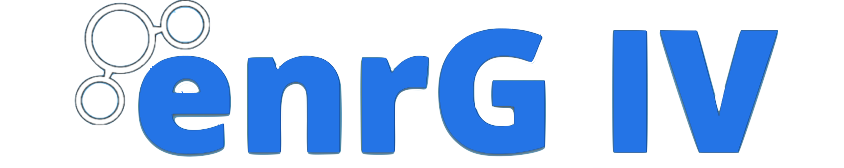
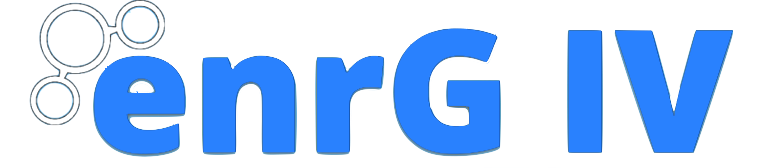
home header

diff --git a/app/assets/stylesheets/static_pages.scss b/app/assets/stylesheets/static_pages.scss
@@ -254,7 +254,7 @@ img.icon { width:10%; @include center-block();}
 
 	.home-cover{@include sec-default(); padding: 40px; @include sec-bgimage(); background-image: url(image_path('beach-couple.jpg'));background-position: center center;
 		height:650px;
-		.title-block {float: right; margin-top: 6%; text-align: center; width:40%;
+		.title-block {float: right; margin-top: 8%; text-align: center; width:45%;
 			.content{@include sec-default(); padding: 0px 0 30px;
 				.drop{@include sec-default(); position: relative;z-index: 0;height: 50px; margin:20px 0;
 					&::before{ @include before(); left: 48%;width:100px; @include sec-bgimage();background-image: url(image_path('drip1.png')); background-size: 23%;}
@@ -262,11 +262,17 @@ img.icon { width:10%; @include center-block();}
 			}
 		}
 
-		h1, h2 {font-weight: bold;@include tshadow(rgba($black, .6)); color:$white; margin: 0;}
-		h1 { width: 85%; @include center-block(); margin: -5px auto 5px;}
-		h2 {font-family: $lora;
-			b{color: $blue; }
-		}
+		// h2 {font-weight: bold;@include tshadow(rgba($black, .6)); color:$white; margin: 0;}
+		// h1 { width: 75%; @include center-block(); margin: -5px auto 5px;}
+		// h2 {font-family: $lora;
+		// 	b{color: $blue; }
+		// }
+		h2 {font-weight: bold;font-family: $open;@include tshadow(rgba($black, .6)); color:$white; font-size: 30px;}
+		h1 .img-text{ width: 330px; @include center-block(); }
+		h1 .img-xs{display: none}
+		// h1 {display: inline-block; margin-left: -25px;}
+		h3 {font-weight: bold; font-size: 20px; margin-top: 10px;@include tshadow(rgba($black, .4)); color:$comp; }
+		h4 {font-weight: bold; font-family: $open; color: $light;@include tshadow(rgba($gray, .9));}
 		.fa {font-size: 6px; vertical-align: middle;}
 	}
 
@@ -293,8 +299,8 @@ img.icon { width:10%; @include center-block();}
 		.top-intro {@include sec-default();
 			.text {display: inline-block; float: right; width: 55%; padding-left:20px;
 				h4 {font-family: $open; b{color: $comp;}}
+				p span.fp{font-size: 15px; color: $font; font-style: italic;}
 			}
-			img.mob {display: none;}
 		}
 
 		.homepage.slider {
@@ -371,49 +377,10 @@ img.icon { width:10%; @include center-block();}
 		h4 {font-weight: bold; font-size: 22px; margin-bottom: 15px;}
 	}
 
-
-	.book-banner-video { background-color: #f5ffff;
-		// @include sec-bgimage(); background-image: url(image_path('enrg-img16.jpg'));
-		@include sec-default(); padding:40px 0 60px; text-align: center;overflow: hidden;
-    position: relative;
-    height: 80vh;
-
-    .video-over, .video-holder, .video-frame{
-      @include sec-default ();
-      position: absolute;
-      top: 0;
-      left: 0;
-      right: 0;
-      bottom: 0;
-      z-index: 0;
-    }
-
-    .video-holder {
-    	// opacity: .4;
-      overflow: hidden;
-      top:60px;
-    }
-
-    .over-holder {
-      @include sec-default ();
-      width: 100%;
-      padding-top: 45px;
-      h3, h4 {font-weight: bold; @include tshadowl(rgba($gray, .6)); font-family: $open; color: #042f62;}
-      h3{font-size: 50px; margin-top: 0; margin-bottom: 15px;
-      	span{color: $blue;@include tshadowl(rgba($gray, .6)); font-family: $open;}
-      }
-      h4 {font-size: 25px; margin-bottom: 0px;}
-
-      .cta {display: inline-block; width:20%; float: none; margin-left:5%; margin-top: 15px; background-color: lighten($blue, 10%); font-size: 23px; font-weight: bold; color: $white; padding: 10px 15px;
-      	@include tshadowl(rgba($gray, .4));
-      	span {color: $gray; font-size: 18px;}
-      }
-		}
-
-      .banner-top {background-color: rgba($offwhite, .6);}
-	}
-
 	@include bp(dt) {
+		.home-cover {
+			.title-block{margin-top: 10%;}
+		}
 		.banner-top{
 			.ch-grid.h-menu{display: inline-block; float: right; width: 55%; padding-left:20px;}
 		}
@@ -451,15 +418,10 @@ img.icon { width:10%; @include center-block();}
 		.home-cover{
 			padding: 40px;background-position: top left;
 			height:500px;
-			.title-block {width:50%;
-				.content{
-					.drop{height: 35px; margin:10px 0;
-						&::before{width:85px;background-size: 23%;}
-					}
-				}
-			}
+			.title-block {width:55%;}
 			h2 {font-size: 25px;}
-			h3 {font-size: 16px;}
+			h3 {font-size: 16px; color:$white;}
+			h4 {color:$white;}
 		}
 
 		.banner-top { padding: 0px;
@@ -492,7 +454,7 @@ img.icon { width:10%; @include center-block();}
 
 	@include bp(pl) {
 		.home-cover{height:400px;
-			.title-block { margin-top: 10%;
+			.title-block { margin-top: 5%;
 				.content{
 					&::before {display: none;}
 					.drop{margin:5px 0; display: none;}
@@ -542,6 +504,8 @@ img.icon { width:10%; @include center-block();}
 
 	@include bp(ph) {
 		.home-cover{ height:320px;
+			.title-block{margin-top: 2%;}
+			h1 .img-text{ width: 250px; }
 			h2 {font-size: 20px;}
 			h3 {font-size: 15px;}
 		}
@@ -570,9 +534,12 @@ img.icon { width:10%; @include center-block();}
 	}
 
 	@include bp(sm) {
-		.home-cover{ background-image: url(image_path('beach-couple-sm.jpg'));
-			.title-block{margin-top: 15%;}
-			h2 {font-size: 15px;}
+		.home-cover{ height:300px; background-image: url(image_path('beach-couple-sm.jpg')); position: relative; z-index: 0;
+			&::before {@include before(); background-color: rgba($blue, .5);}
+			.title-block{margin-top: 3%; width:95%; @include center-block();}
+			h1 .img-text{ display: none;}
+			h1 .img-xs{display: block; @include center-block(); width:250px;}
+			// h2 {font-size: 15px;}
 		}
 
 		.banner-top {
@@ -605,13 +572,21 @@ img.icon { width:10%; @include center-block();}
 	}
 
 	@include bp(xs) {
-		.home-cover{height:230px;
-			.title-block{margin-top: 10%;}
-			h1 {margin-bottom: 10px;}
+		.home-cover{ height: 270px;
+			h1 .img-xs{ width: 200px; }
 			h3 {font-size: 14px;}
 		}
 
 		.book-banner {padding-top: 20px; background-image: url(image_path('water-bg-xs.png'));}
+	}
+
+	@include bp(xx) {
+		.home-cover{ height: 250px; padding: 30px 0;
+			&::before {background-color: rgba($blue, .7);}
+			.title-block{margin-top: 0;}
+			h1 .img-xs{ width: 200px; }
+			h3 {font-size: 14px;}
+		}
 	}
 }
 
@@ -1365,7 +1340,6 @@ img.icon { width:10%; @include center-block();}
     height: 65vh;
 			// &.reg{ top: -10px;}
 
-
     .video-over, .video-holder, .video-frame{
       @include sec-default ();
       position: absolute;
@@ -1402,8 +1376,6 @@ img.icon { width:10%; @include center-block();}
 				display: inline-block; float: none; text-align: center;
 				margin: 30px 20px 15px;
 				opacity: .3;
-				// &.left {float: left;}
-				// &.right {float: right;}
 			}
 		}
 	}

diff --git a/app/assets/stylesheets/header.scss b/app/assets/stylesheets/header.scss
@@ -150,7 +150,10 @@ h3.module-title{color: $white;}
 }
 
 @include bp(md) {
-    #nav .logo{width:200px; padding-top: 14px}
+    #nav{
+        .logo{width:185px; padding-top: 25px}
+        nav li {margin-right: 15px;}
+    }
 
     .book-bar {padding: 6px 25px 5px;
         .contact-info {@include sec-default();text-align: center;
